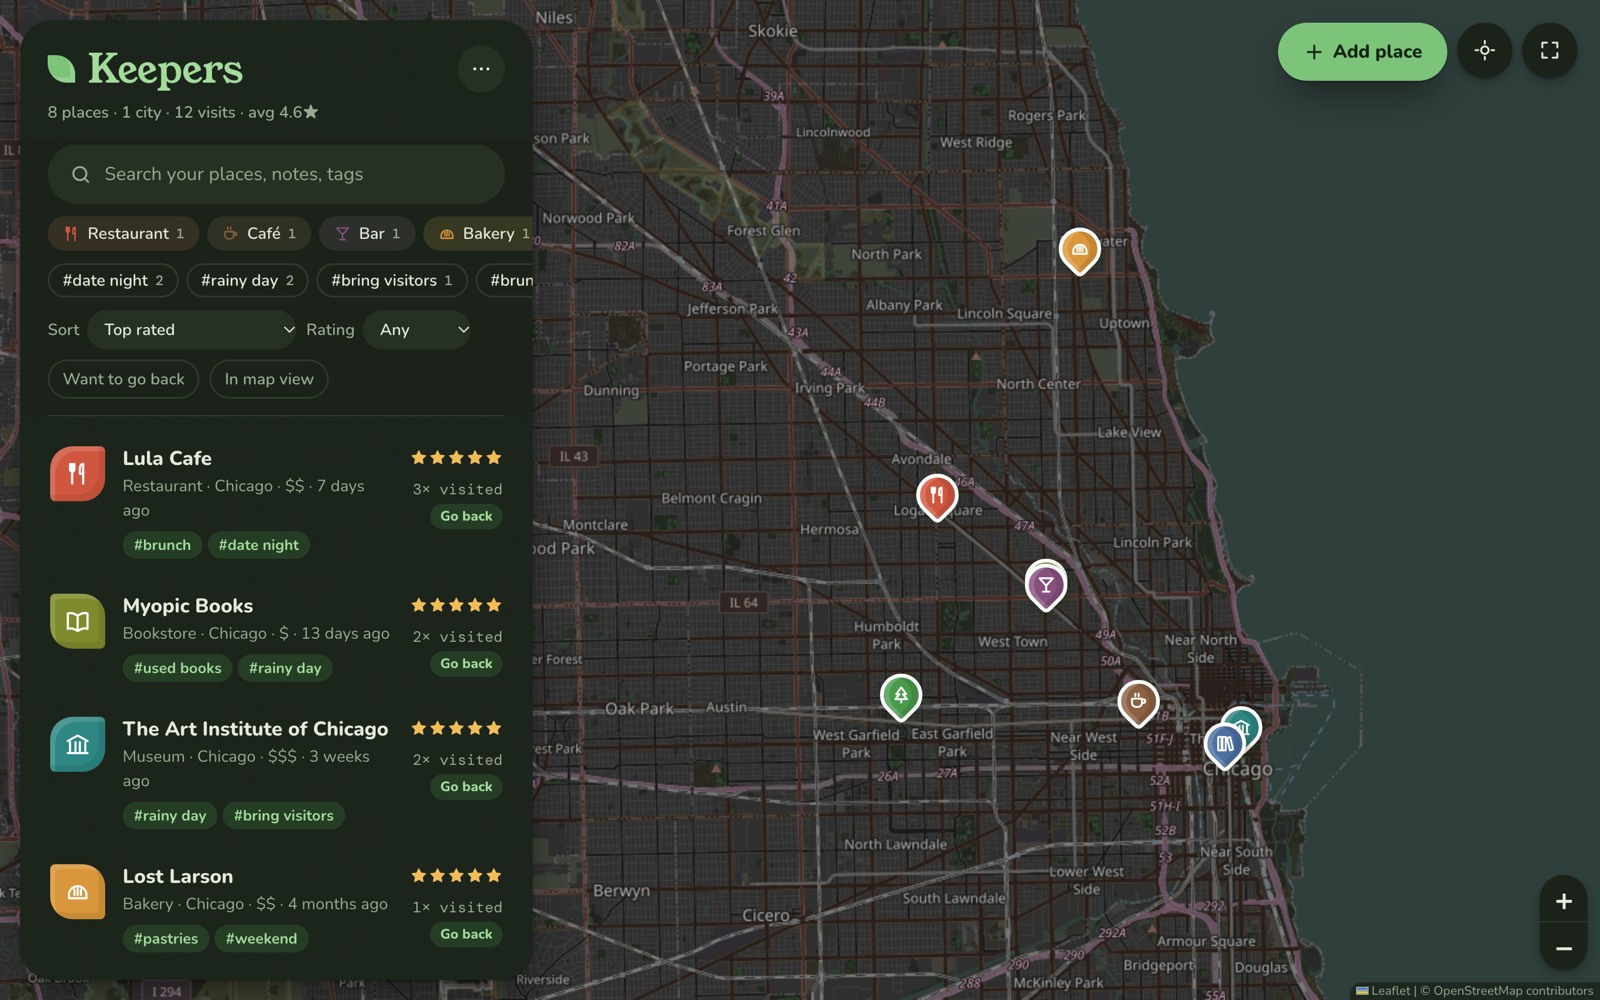
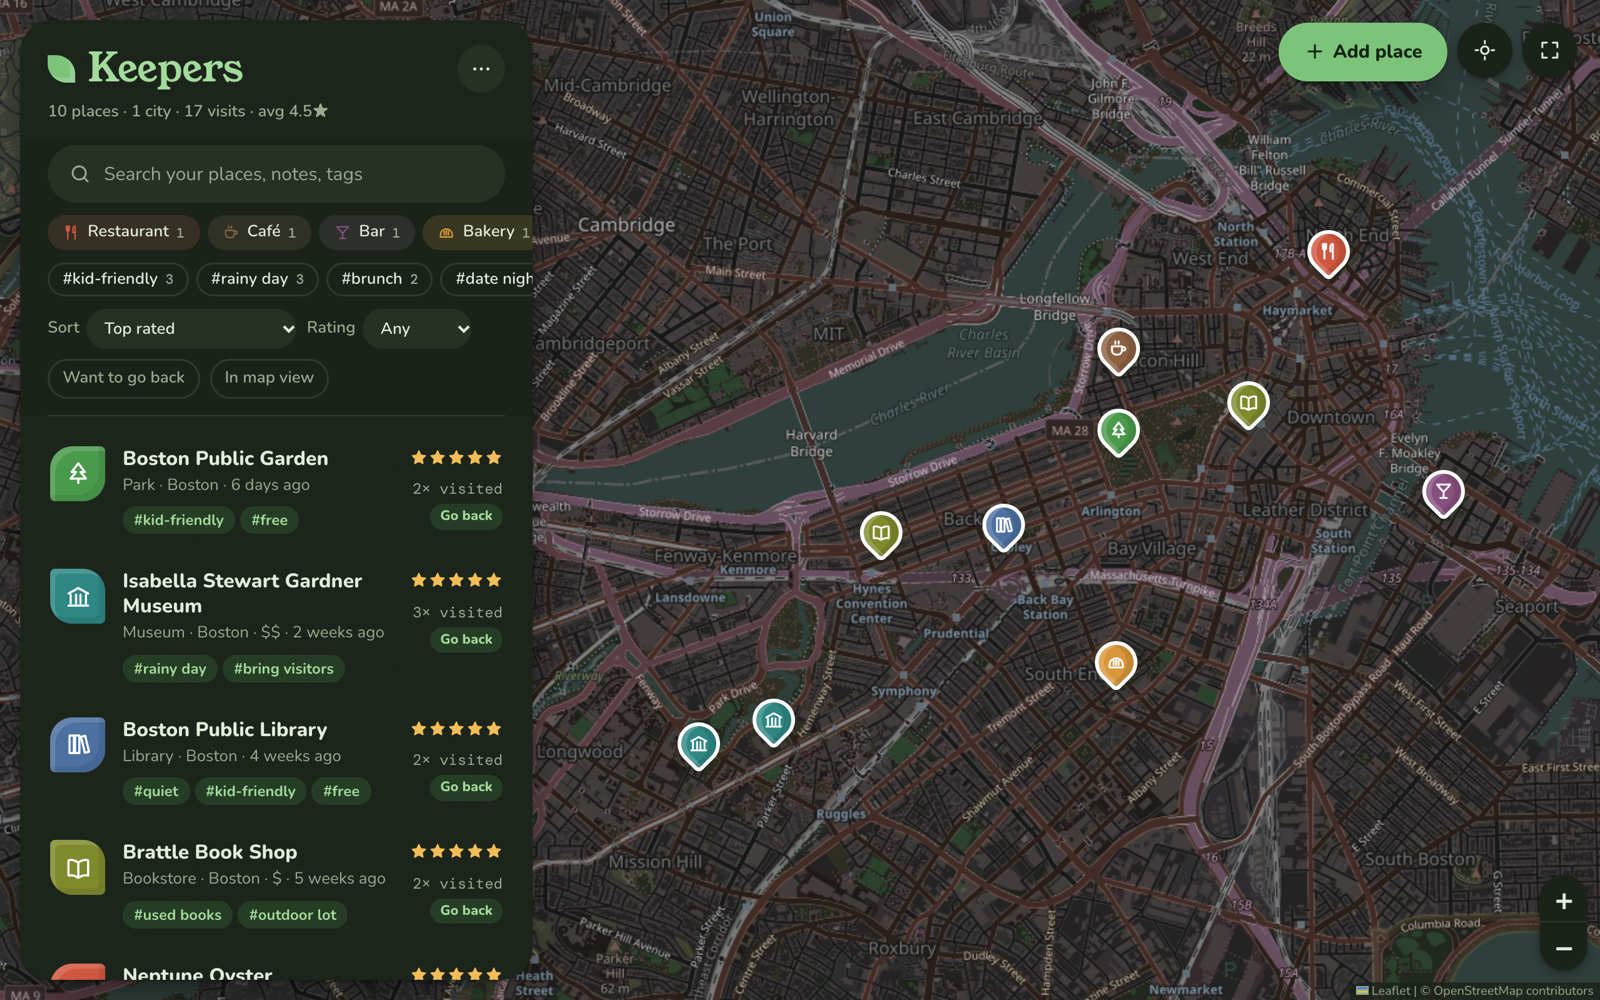
README screenshots: Boston places

diff --git a/README.md b/README.md
@@ -2,7 +2,7 @@
 
 <picture>
   <source media="(prefers-color-scheme: dark)" srcset="docs/screenshot-dark.png">
-  <img alt="Keepers: a list of favorite Chicago places with ratings and tags beside a map of color-coded pins" src="docs/screenshot.png">
+  <img alt="Keepers: a list of favorite Boston places with ratings and tags beside a map of color-coded pins" src="docs/screenshot.png">
 </picture>
 
 **Start it:** double-click `Keepers.command`. Your browser opens at http://localhost:8142. Keep that Terminal window open while you use it.
